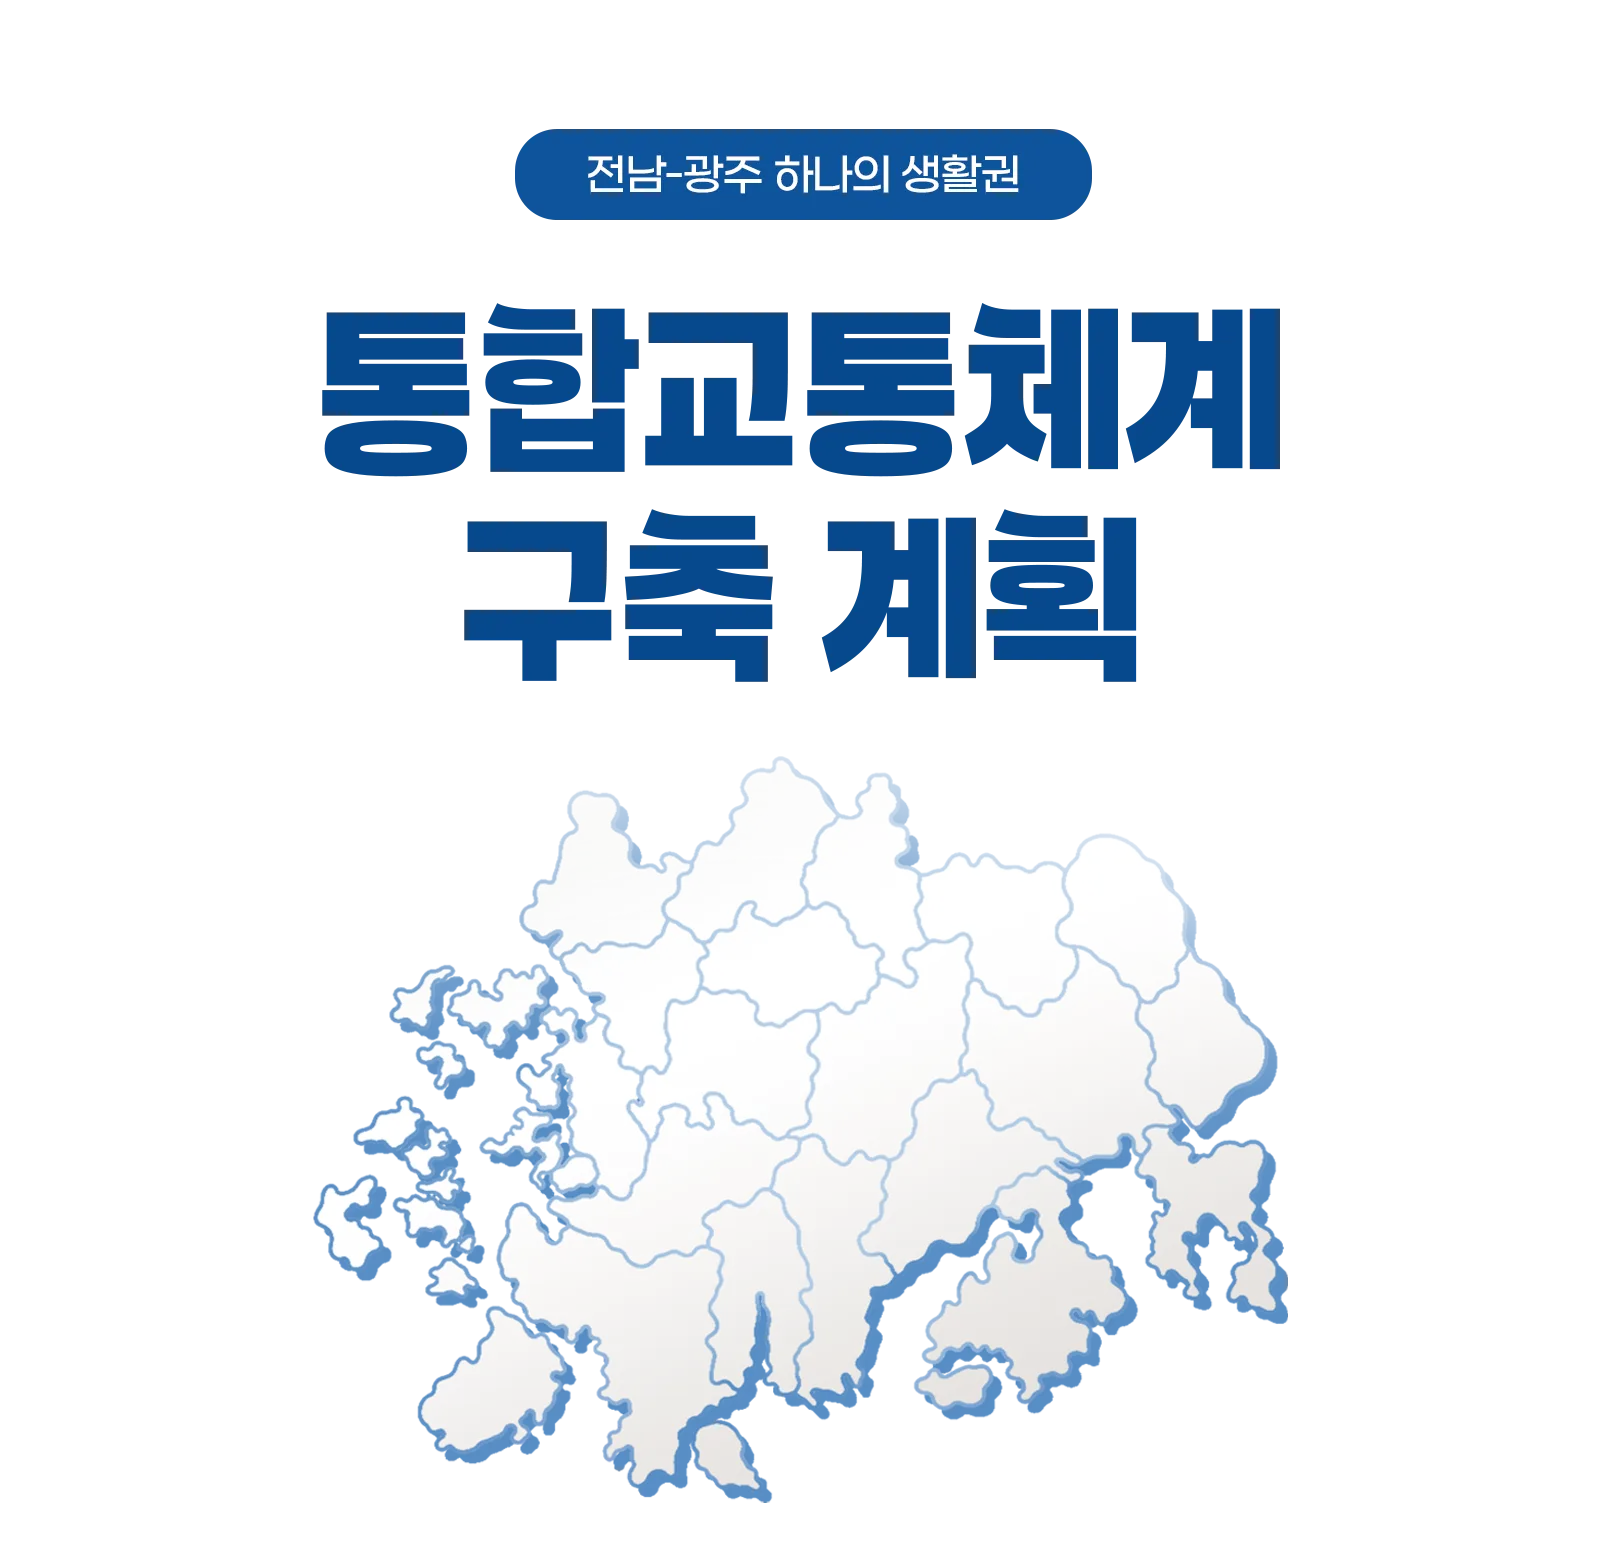
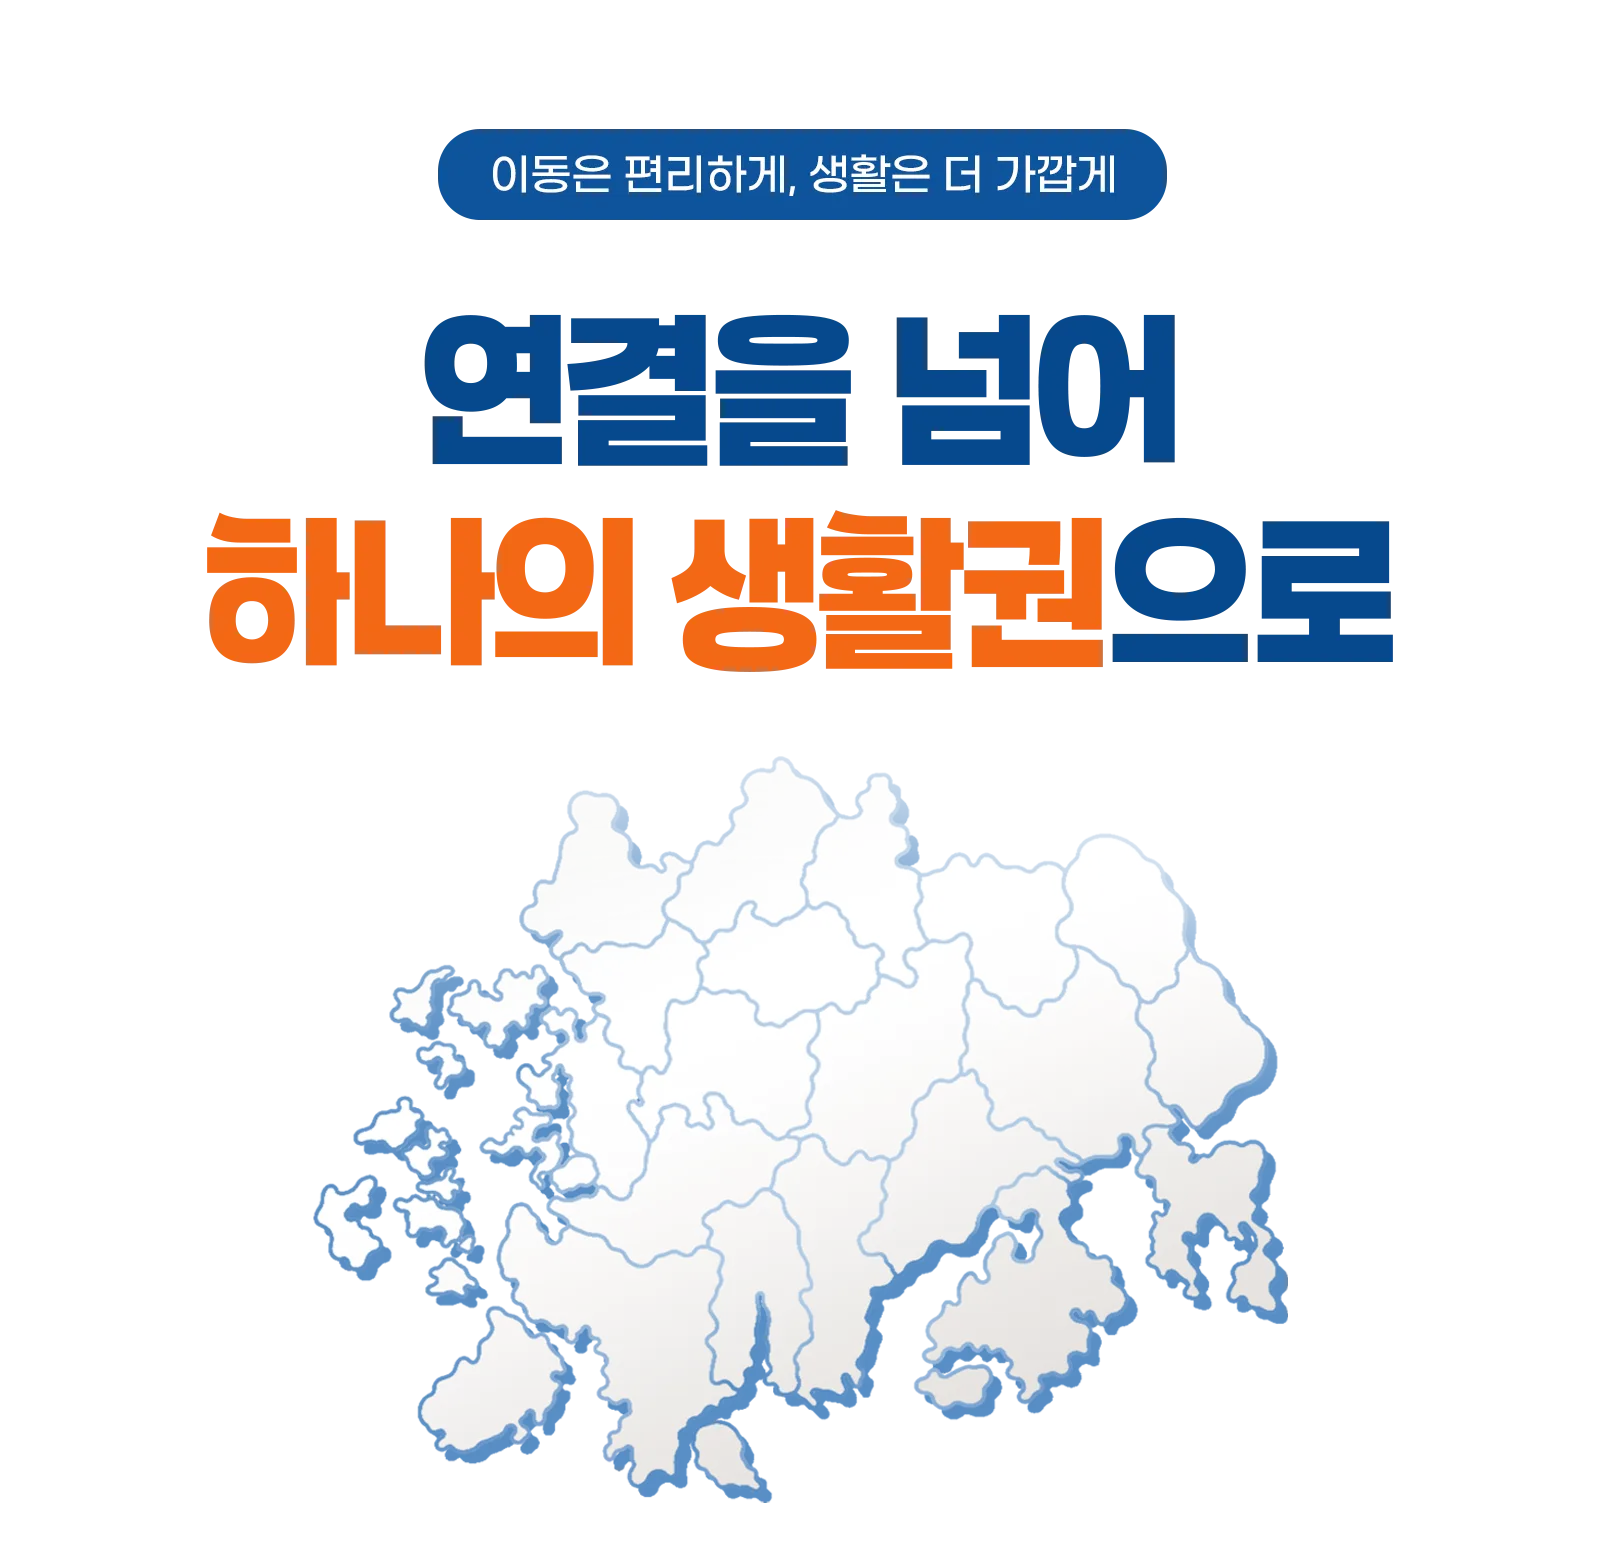
Add files via upload

Changed region(s): [[0.125, 0.1858, 0.875, 0.4645], [0.25, 0.0619, 0.75, 0.1548]]

diff --git a/index.html b/index.html
@@ -93,7 +93,7 @@ if(location.protocol==='file:'||location.hostname.indexOf('github.io')>-1){
 .contents_div .jgtr-hero--ready .jgtr-ln{stroke-dashoffset:var(--jgtrL)}
 .contents_div .jgtr-hero--ready .jgtr-rise{transform:translateY(13%)}
 .contents_div .jgtr-hero--ready .jgtr-rise--num{transform:scale(0);opacity:0}
-.contents_div .jgtr-hero--ready .jgtr-kick{clip-path:inset(0 69.5% 0 0);transform:translateX(-2.5%)}
+.contents_div .jgtr-hero--ready .jgtr-kick{clip-path:inset(0 74.313% 0 0);transform:translateX(-2.5%)}
 .contents_div .jgtr-hero--ready .jgtr-ch{transform:translateY(13%)}
 .contents_div .jgtr-hero--ready .jgtr-full{opacity:0}
 .contents_div .jgtr-hero--ready .jgtr-map{opacity:0;transform:translateY(3%) scale(.97);transform-origin:50% 70%}
@@ -113,7 +113,7 @@ if(location.protocol==='file:'||location.hostname.indexOf('github.io')>-1){
 .contents_div .jgtr-hero--play .jgtr-icon{animation:jgtrIcon .8s cubic-bezier(.16,1,.3,1) var(--jgtrIdl) forwards}
 .contents_div .jgtr-hero--play .jgtr-kick{animation:jgtrKick .85s cubic-bezier(.77,0,.18,1) .1s forwards}
 .contents_div .jgtr-hero--play .jgtr-ch{animation:jgtrRise .75s cubic-bezier(.2,.9,.25,1) var(--jgtrDl) forwards}
-.contents_div .jgtr-hero--play .jgtr-full{animation:jgtrFade .01s linear 1.45s forwards}
+.contents_div .jgtr-hero--play .jgtr-full{animation:jgtrFade .01s linear 1.65s forwards}
 .contents_div .jgtr-hero--play .jgtr-rise--num{animation:jgtrNum 1.1s linear .9s forwards,jgtrNumPulse 3.2s ease-in-out 2s infinite}
 
 @keyframes jgtrBg{to{opacity:1;transform:scale(1)}}
@@ -122,7 +122,7 @@ if(location.protocol==='file:'||location.hostname.indexOf('github.io')>-1){
 @keyframes jgtrBeamBg{0%,100%{opacity:1}50%{opacity:.3}}
 @keyframes jgtrHide{to{opacity:0}}
 @keyframes jgtrFloat{0%,100%{transform:translateY(0)}50%{transform:translateY(-1.1%)}}
-@keyframes jgtrKick{to{clip-path:inset(0 31.06% 0 0);transform:translateX(0)}}
+@keyframes jgtrKick{to{clip-path:inset(0 26.375% 0 0);transform:translateX(0)}}
 @keyframes jgtrNum{0%{transform:scale(0);opacity:0;animation-timing-function:cubic-bezier(.2,.9,.3,1)}50%{transform:scale(1.15);opacity:1;animation-timing-function:cubic-bezier(.45,0,.25,1)}100%{transform:scale(1);opacity:1}}
 @keyframes jgtrShine{0%{opacity:1;background-position:-2.5% 0}37.5%{opacity:1;background-position:102.5% 0}100%{opacity:1;background-position:102.5% 0}}
 @keyframes jgtrNumPulse{0%,100%{transform:scale(1)}50%{transform:scale(1.025)}}
@@ -642,80 +642,98 @@ if(location.protocol==='file:'||location.hostname.indexOf('github.io')>-1){
     <div class="jgtr-clip" style="position:absolute;top:0;left:0;width:100%;height:100%;clip-path:inset(7.74% 0 85.29% 0)">
       <img class="jgtr-layer jgtr-kick" style="position:absolute;top:0;left:0;width:100%;height:auto;display:block"
         src="img/히어로텍스트_지도.webp"
-        alt="전남-광주 하나의 생활권, 통합교통체계 구축 계획 10·30·60" width="1600" height="1550" fetchpriority="high" loading="eager">
-      <div class="jgtr-shine" aria-hidden="true" style="position:absolute;top:0;left:0;width:100%;height:100%;opacity:0;clip-path:inset(8.32% 31.75% 85.74% 32.19% round 2.84% / 2.94%)"></div>
+        alt="이동은 편리하게, 생활은 더 가깝게. 연결을 넘어 하나의 생활권으로 10·30·60" width="1600" height="1550" fetchpriority="high" loading="eager">
+      <div class="jgtr-shine" aria-hidden="true" style="position:absolute;top:0;left:0;width:100%;height:100%;opacity:0;clip-path:inset(8.32% 27.125% 85.74% 27.375% round 2.84% / 2.94%)"></div>
     </div>
 
     <!-- 히어로텍스트_지도 : 메인 1줄 전체 (글자 모션 끝난 뒤 이음새 덮기) -->
-    <div class="jgtr-clip" style="position:absolute;top:0;left:0;width:100%;height:100%;clip-path:inset(19.355% 19.438% 68.903% 19.500%)">
+    <div class="jgtr-clip" style="position:absolute;top:0;left:0;width:100%;height:100%;clip-path:inset(19.355% 26.000% 68.903% 25.875%)">
       <img class="jgtr-layer jgtr-full" style="position:absolute;top:0;left:0;width:100%;height:auto;display:block"
         src="img/히어로텍스트_지도.webp"
         alt="" aria-hidden="true" width="1600" height="1550" fetchpriority="high" loading="eager">
     </div>
     <!-- 메인 1줄 글자 1 (마스크 라이즈) -->
-    <div class="jgtr-clip" style="position:absolute;top:0;left:0;width:100%;height:100%;clip-path:inset(19.355% 70.250% 68.903% 19.500%)">
-      <img class="jgtr-layer jgtr-ch" style="position:absolute;top:0;left:0;width:100%;height:auto;display:block;clip-path:inset(19.355% 70.250% 68.903% 19.500%);--jgtrDl:0.20s"
+    <div class="jgtr-clip" style="position:absolute;top:0;left:0;width:100%;height:100%;clip-path:inset(19.355% 64.750% 68.903% 25.875%)">
+      <img class="jgtr-layer jgtr-ch" style="position:absolute;top:0;left:0;width:100%;height:auto;display:block;clip-path:inset(19.355% 64.750% 68.903% 25.875%);--jgtrDl:0.20s"
         src="img/히어로텍스트_지도.webp"
         alt="" aria-hidden="true" width="1600" height="1550" fetchpriority="high" loading="eager">
     </div>
     <!-- 메인 1줄 글자 2 (마스크 라이즈) -->
-    <div class="jgtr-clip" style="position:absolute;top:0;left:0;width:100%;height:100%;clip-path:inset(19.355% 59.906% 68.903% 29.750%)">
-      <img class="jgtr-layer jgtr-ch" style="position:absolute;top:0;left:0;width:100%;height:auto;display:block;clip-path:inset(19.355% 59.906% 68.903% 29.750%);--jgtrDl:0.26s"
+    <div class="jgtr-clip" style="position:absolute;top:0;left:0;width:100%;height:100%;clip-path:inset(19.355% 55.562% 68.903% 35.250%)">
+      <img class="jgtr-layer jgtr-ch" style="position:absolute;top:0;left:0;width:100%;height:auto;display:block;clip-path:inset(19.355% 55.562% 68.903% 35.250%);--jgtrDl:0.26s"
         src="img/히어로텍스트_지도.webp"
         alt="" aria-hidden="true" width="1600" height="1550" fetchpriority="high" loading="eager">
     </div>
     <!-- 메인 1줄 글자 3 (마스크 라이즈) -->
-    <div class="jgtr-clip" style="position:absolute;top:0;left:0;width:100%;height:100%;clip-path:inset(19.355% 50.031% 68.903% 40.094%)">
-      <img class="jgtr-layer jgtr-ch" style="position:absolute;top:0;left:0;width:100%;height:auto;display:block;clip-path:inset(19.355% 50.031% 68.903% 40.094%);--jgtrDl:0.32s"
+    <div class="jgtr-clip" style="position:absolute;top:0;left:0;width:100%;height:100%;clip-path:inset(19.355% 45.438% 68.903% 44.438%)">
+      <img class="jgtr-layer jgtr-ch" style="position:absolute;top:0;left:0;width:100%;height:auto;display:block;clip-path:inset(19.355% 45.438% 68.903% 44.438%);--jgtrDl:0.32s"
         src="img/히어로텍스트_지도.webp"
         alt="" aria-hidden="true" width="1600" height="1550" fetchpriority="high" loading="eager">
     </div>
     <!-- 메인 1줄 글자 4 (마스크 라이즈) -->
-    <div class="jgtr-clip" style="position:absolute;top:0;left:0;width:100%;height:100%;clip-path:inset(19.355% 40.031% 68.903% 49.969%)">
-      <img class="jgtr-layer jgtr-ch" style="position:absolute;top:0;left:0;width:100%;height:auto;display:block;clip-path:inset(19.355% 40.031% 68.903% 49.969%);--jgtrDl:0.38s"
+    <div class="jgtr-clip" style="position:absolute;top:0;left:0;width:100%;height:100%;clip-path:inset(19.355% 35.406% 68.903% 54.562%)">
+      <img class="jgtr-layer jgtr-ch" style="position:absolute;top:0;left:0;width:100%;height:auto;display:block;clip-path:inset(19.355% 35.406% 68.903% 54.562%);--jgtrDl:0.38s"
         src="img/히어로텍스트_지도.webp"
         alt="" aria-hidden="true" width="1600" height="1550" fetchpriority="high" loading="eager">
     </div>
     <!-- 메인 1줄 글자 5 (마스크 라이즈) -->
-    <div class="jgtr-clip" style="position:absolute;top:0;left:0;width:100%;height:100%;clip-path:inset(19.355% 29.906% 68.903% 59.969%)">
-      <img class="jgtr-layer jgtr-ch" style="position:absolute;top:0;left:0;width:100%;height:auto;display:block;clip-path:inset(19.355% 29.906% 68.903% 59.969%);--jgtrDl:0.44s"
-        src="img/히어로텍스트_지도.webp"
-        alt="" aria-hidden="true" width="1600" height="1550" fetchpriority="high" loading="eager">
-    </div>
-    <!-- 메인 1줄 글자 6 (마스크 라이즈) -->
-    <div class="jgtr-clip" style="position:absolute;top:0;left:0;width:100%;height:100%;clip-path:inset(19.355% 19.438% 68.903% 70.094%)">
-      <img class="jgtr-layer jgtr-ch" style="position:absolute;top:0;left:0;width:100%;height:auto;display:block;clip-path:inset(19.355% 19.438% 68.903% 70.094%);--jgtrDl:0.50s"
+    <div class="jgtr-clip" style="position:absolute;top:0;left:0;width:100%;height:100%;clip-path:inset(19.355% 26.000% 68.903% 64.594%)">
+      <img class="jgtr-layer jgtr-ch" style="position:absolute;top:0;left:0;width:100%;height:auto;display:block;clip-path:inset(19.355% 26.000% 68.903% 64.594%);--jgtrDl:0.44s"
         src="img/히어로텍스트_지도.webp"
         alt="" aria-hidden="true" width="1600" height="1550" fetchpriority="high" loading="eager">
     </div>
 
     <!-- 히어로텍스트_지도 : 메인 2줄 전체 (글자 모션 끝난 뒤 이음새 덮기) -->
-    <div class="jgtr-clip" style="position:absolute;top:0;left:0;width:100%;height:100%;clip-path:inset(32.387% 28.375% 55.484% 28.375%)">
+    <div class="jgtr-clip" style="position:absolute;top:0;left:0;width:100%;height:100%;clip-path:inset(32.387% 12.375% 55.484% 12.312%)">
       <img class="jgtr-layer jgtr-full" style="position:absolute;top:0;left:0;width:100%;height:auto;display:block"
         src="img/히어로텍스트_지도.webp"
         alt="" aria-hidden="true" width="1600" height="1550" fetchpriority="high" loading="eager">
     </div>
     <!-- 메인 2줄 글자 1 (마스크 라이즈) -->
-    <div class="jgtr-clip" style="position:absolute;top:0;left:0;width:100%;height:100%;clip-path:inset(32.387% 61.375% 55.484% 28.375%)">
-      <img class="jgtr-layer jgtr-ch" style="position:absolute;top:0;left:0;width:100%;height:auto;display:block;clip-path:inset(32.387% 61.375% 55.484% 28.375%);--jgtrDl:0.45s"
+    <div class="jgtr-clip" style="position:absolute;top:0;left:0;width:100%;height:100%;clip-path:inset(32.387% 78.031% 55.484% 12.312%)">
+      <img class="jgtr-layer jgtr-ch" style="position:absolute;top:0;left:0;width:100%;height:auto;display:block;clip-path:inset(32.387% 78.031% 55.484% 12.312%);--jgtrDl:0.45s"
         src="img/히어로텍스트_지도.webp"
         alt="" aria-hidden="true" width="1600" height="1550" fetchpriority="high" loading="eager">
     </div>
     <!-- 메인 2줄 글자 2 (마스크 라이즈) -->
-    <div class="jgtr-clip" style="position:absolute;top:0;left:0;width:100%;height:100%;clip-path:inset(32.387% 50.187% 55.484% 38.625%)">
-      <img class="jgtr-layer jgtr-ch" style="position:absolute;top:0;left:0;width:100%;height:auto;display:block;clip-path:inset(32.387% 50.187% 55.484% 38.625%);--jgtrDl:0.51s"
+    <div class="jgtr-clip" style="position:absolute;top:0;left:0;width:100%;height:100%;clip-path:inset(32.387% 69.062% 55.484% 21.969%)">
+      <img class="jgtr-layer jgtr-ch" style="position:absolute;top:0;left:0;width:100%;height:auto;display:block;clip-path:inset(32.387% 69.062% 55.484% 21.969%);--jgtrDl:0.50s"
         src="img/히어로텍스트_지도.webp"
         alt="" aria-hidden="true" width="1600" height="1550" fetchpriority="high" loading="eager">
     </div>
     <!-- 메인 2줄 글자 3 (마스크 라이즈) -->
-    <div class="jgtr-clip" style="position:absolute;top:0;left:0;width:100%;height:100%;clip-path:inset(32.387% 38.719% 55.484% 49.813%)">
-      <img class="jgtr-layer jgtr-ch" style="position:absolute;top:0;left:0;width:100%;height:auto;display:block;clip-path:inset(32.387% 38.719% 55.484% 49.813%);--jgtrDl:0.57s"
+    <div class="jgtr-clip" style="position:absolute;top:0;left:0;width:100%;height:100%;clip-path:inset(32.387% 59.281% 55.484% 30.938%)">
+      <img class="jgtr-layer jgtr-ch" style="position:absolute;top:0;left:0;width:100%;height:auto;display:block;clip-path:inset(32.387% 59.281% 55.484% 30.938%);--jgtrDl:0.55s"
         src="img/히어로텍스트_지도.webp"
         alt="" aria-hidden="true" width="1600" height="1550" fetchpriority="high" loading="eager">
     </div>
     <!-- 메인 2줄 글자 4 (마스크 라이즈) -->
-    <div class="jgtr-clip" style="position:absolute;top:0;left:0;width:100%;height:100%;clip-path:inset(32.387% 28.375% 55.484% 61.281%)">
-      <img class="jgtr-layer jgtr-ch" style="position:absolute;top:0;left:0;width:100%;height:auto;display:block;clip-path:inset(32.387% 28.375% 55.484% 61.281%);--jgtrDl:0.63s"
+    <div class="jgtr-clip" style="position:absolute;top:0;left:0;width:100%;height:100%;clip-path:inset(32.387% 48.906% 55.484% 40.719%)">
+      <img class="jgtr-layer jgtr-ch" style="position:absolute;top:0;left:0;width:100%;height:auto;display:block;clip-path:inset(32.387% 48.906% 55.484% 40.719%);--jgtrDl:0.60s"
+        src="img/히어로텍스트_지도.webp"
+        alt="" aria-hidden="true" width="1600" height="1550" fetchpriority="high" loading="eager">
+    </div>
+    <!-- 메인 2줄 글자 5 (마스크 라이즈) -->
+    <div class="jgtr-clip" style="position:absolute;top:0;left:0;width:100%;height:100%;clip-path:inset(32.387% 39.562% 55.484% 51.094%)">
+      <img class="jgtr-layer jgtr-ch" style="position:absolute;top:0;left:0;width:100%;height:auto;display:block;clip-path:inset(32.387% 39.562% 55.484% 51.094%);--jgtrDl:0.65s"
+        src="img/히어로텍스트_지도.webp"
+        alt="" aria-hidden="true" width="1600" height="1550" fetchpriority="high" loading="eager">
+    </div>
+    <!-- 메인 2줄 글자 6 (마스크 라이즈) -->
+    <div class="jgtr-clip" style="position:absolute;top:0;left:0;width:100%;height:100%;clip-path:inset(32.387% 30.812% 55.484% 60.438%)">
+      <img class="jgtr-layer jgtr-ch" style="position:absolute;top:0;left:0;width:100%;height:auto;display:block;clip-path:inset(32.387% 30.812% 55.484% 60.438%);--jgtrDl:0.70s"
+        src="img/히어로텍스트_지도.webp"
+        alt="" aria-hidden="true" width="1600" height="1550" fetchpriority="high" loading="eager">
+    </div>
+    <!-- 메인 2줄 글자 7 (마스크 라이즈) -->
+    <div class="jgtr-clip" style="position:absolute;top:0;left:0;width:100%;height:100%;clip-path:inset(32.387% 21.750% 55.484% 69.188%)">
+      <img class="jgtr-layer jgtr-ch" style="position:absolute;top:0;left:0;width:100%;height:auto;display:block;clip-path:inset(32.387% 21.750% 55.484% 69.188%);--jgtrDl:0.75s"
+        src="img/히어로텍스트_지도.webp"
+        alt="" aria-hidden="true" width="1600" height="1550" fetchpriority="high" loading="eager">
+    </div>
+    <!-- 메인 2줄 글자 8 (마스크 라이즈) -->
+    <div class="jgtr-clip" style="position:absolute;top:0;left:0;width:100%;height:100%;clip-path:inset(32.387% 12.375% 55.484% 78.250%)">
+      <img class="jgtr-layer jgtr-ch" style="position:absolute;top:0;left:0;width:100%;height:auto;display:block;clip-path:inset(32.387% 12.375% 55.484% 78.250%);--jgtrDl:0.80s"
         src="img/히어로텍스트_지도.webp"
         alt="" aria-hidden="true" width="1600" height="1550" fetchpriority="high" loading="eager">
     </div>
